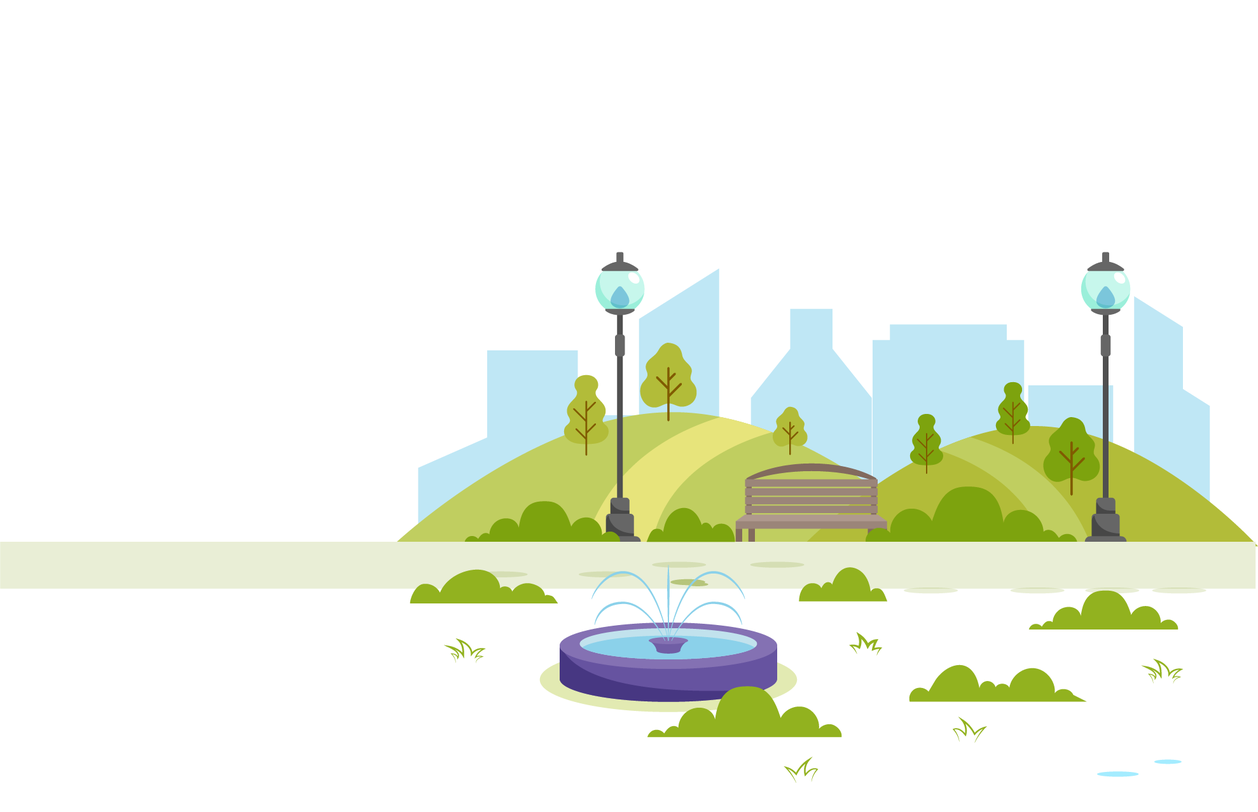
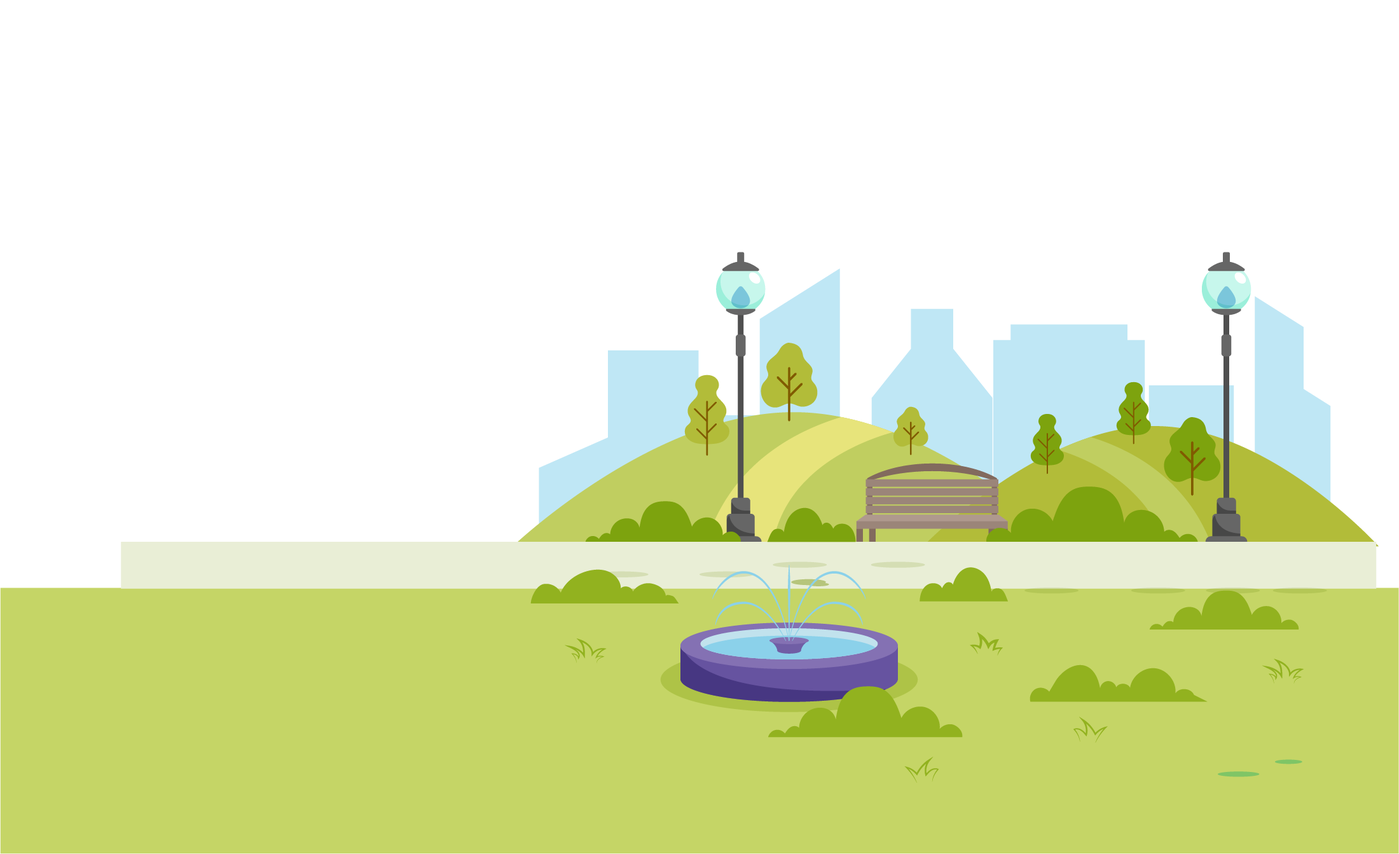
update

diff --git a/sass/style.css b/sass/style.css
@@ -1,1 +1,1 @@
-@import"https://fonts.googleapis.com/css2?family=Poppins:wght@400;700&family=Tilt+Neon&family=Outfit:wght@400;700&family=Prompt:wght@400;700&display=swap";section{padding:32px 0;min-height:100vh;z-index:11;background:#eee;position:relative}@media screen and (max-width: 400px){section p{font-size:.85rem}}.sticky-mode{position:sticky;left:0;right:0;top:0;bottom:0;min-height:100vh}.wrap-detikx{width:700px;position:relative;margin:0 auto}@media screen and (max-width: 766px){.wrap-detikx{width:90%;margin:0 auto;display:block}}.totop{position:relative;z-index:19}.firstletter::first-letter{float:left;font-weight:bold;margin-right:8px;font-size:60px;font-size:6rem;line-height:40px;line-height:4rem;height:4rem;text-transform:uppercase}main{overflow-x:clip}html,body{position:relative;height:100%;font-family:"Poppins"}html h2,html h3,body h2,body h3{font-weight:700;font-family:"Prompt"}.opening .point{position:absolute;width:fit-content;z-index:3;height:auto}.opening .point.malang{bottom:25%;right:40%}@media screen and (max-width: 768px){.opening .point.malang{bottom:26%;right:60%;width:80px}}@media screen and (max-width: 363px){.opening .point.malang{bottom:20%}}.opening .point.bwi{bottom:25%;right:10%}@media screen and (max-width: 768px){.opening .point.bwi{width:110px;bottom:35%;right:8%}}@media screen and (max-width: 400px){.opening .point.bwi{bottom:28%}}.opening .point img{width:100%;height:100%;object-fit:contain}.opening .peta{position:absolute;right:-10%;bottom:0;width:150%;height:auto}@media screen and (max-width: 768px){.opening .peta{bottom:-16%;width:250%;right:-20%}}.opening .peta img{width:100%;height:100%;object-fit:cover}.opening .kotak-aja{position:absolute;inset:0;width:100%;height:100%}.opening .kotak-aja img{width:100%;height:100%;object-fit:contain}@media screen and (max-width: 768px){.opening .kotak-aja img{object-fit:cover}}.opening .awan{position:relative;width:100%;height:auto;margin-bottom:16px}.opening .awan img{width:100%;height:100%;object-fit:contain}.banner{background:#f7c58d}.banner .judul{position:absolute;left:50%;top:50%;width:70%;transform:translate(-50%, -50%)}@media screen and (max-width: 768px){.banner .judul{width:80%}}.banner .judul h2{font-family:"Prompt",sans-serif;font-size:3.3rem;text-transform:uppercase;text-shadow:-3px 3px 0 #fff,2px 3px 0 #fff,2px -2px 0 #fff,-2px 3px 0 #fff,-3px -2px 0 #fff}@media screen and (max-width: 768px){.banner .judul h2{font-size:2.9rem}}.cerita{background:#a55e3c;overflow:clip}.cerita::before{content:"";position:absolute;top:-10vh;width:100%;height:100px;left:0;right:0;background:#a55e3c}.cerita .abs{position:absolute}.cerita .abs-3{left:0;top:0;bottom:0;height:140%}@media screen and (max-width: 768px){.cerita .abs-3{left:0;bottom:-78vh;width:fit-content;height:auto}}@media screen and (min-width: 1600px){.cerita .abs-3{left:0;top:0;bottom:0;height:100%}}.cerita .abs-2{left:35vw;top:-12vh;bottom:0;height:80%}@media screen and (max-width: 768px){.cerita .abs-2{left:initial;bottom:-8vh;width:fit-content;height:auto;transform:rotate(-29deg);right:0}}@media screen and (min-width: 1600px){.cerita .abs-2{left:25vw;top:-12vh;bottom:0;height:80%}}.cerita .abs-1{left:-20vw;width:auto;height:140%;bottom:-10vh}@media screen and (max-width: 768px){.cerita .abs-1{left:-76vw;width:auto;height:80%;bottom:-20vh}}@media screen and (min-width: 1900px){.cerita .abs-1{left:-20vw;height:100%;bottom:-10vh}}.cerita .abs img{width:100%;height:100%;object-fit:contain}.cerita .abs-rel{bottom:-46vh;left:-36vw;width:auto;height:100%}@media screen and (max-width: 768px){.cerita .abs-rel{left:-100vw}}@media screen and (min-width: 1400px){.cerita .abs-rel{bottom:-40vh;left:-50vw}}@keyframes banner{0%{transform:rotateY(0deg);bottom:30%;left:5%}20%{bottom:30%;left:5%}50%{bottom:70%;left:-30%}51%{bottom:calc(50% + 300px);left:-55%}100%{bottom:30%;left:5%}}@keyframes banner-mob{0%{transform:rotateY(0deg);bottom:18vh;left:12%}20%{bottom:18vh;left:12%}50%{bottom:40vh;left:-60%}51%{bottom:43vh;left:-62%}100%{bottom:18vh;left:12%}}.cerita .abs.mobil-1{left:5%;bottom:30%;height:250px;width:fit-content;animation:linear infinite;animation-name:banner;animation-duration:12s}@media screen and (max-width: 768px){.cerita .abs.mobil-1{height:18vh;bottom:18vh;left:12%;animation:linear infinite;animation-name:banner-mob;animation-duration:15s}}.cerita .abs.mobil-2{left:20%;bottom:10vh;height:30vh;z-index:1}@media screen and (max-width: 768px){.cerita .abs.mobil-2{left:initial;height:18vh;bottom:10vh;right:6vw}}.cerita .abs.mobil-2 .bayang{position:absolute;right:-52%;height:80px;bottom:6px}@media screen and (max-width: 768px){.cerita .abs.mobil-2 .bayang{right:-44%;height:56px}}.cerita .abs.mobil-2 .bayang img{width:100%;height:100%;object-fit:contain}.cerita .abs.mobil-2 .lala{position:relative;z-index:2}@keyframes Gali{0%,100%{transform:rotate(-5deg);top:2%;left:-40%}50%{transform:rotate(-15deg);top:4%;left:-36%}}@keyframes GaliBig{0%,100%{transform:rotate(-5deg);top:2%;left:-30%}50%{transform:rotate(-20deg);top:4%;left:-24%}}.cerita .abs.mobil-2 .gali{animation:Gali 2s linear infinite;position:absolute;left:-40%;width:120px;top:2%;transform:rotate(-5deg);height:120px;z-index:1}@media screen and (max-width: 768px){.cerita .abs.mobil-2 .gali{width:100px;height:100px;left:-50%}}@media screen and (min-width: 1500px){.cerita .abs.mobil-2 .gali{animation:GaliBig 2s linear infinite;left:-30%}}@media screen and (max-width: 400px){.cerita .abs.mobil-2 .gali{width:80px;height:80px;left:-40%}}.cerita .abs.kereta-1{bottom:0;left:8vw;display:none}@media screen and (max-width: 768px){.cerita .abs.kereta-1{bottom:5vh}}@keyframes kereta{0%{bottom:-20vh;left:15vw}30%{bottom:-20vh;left:15vw}50%{bottom:50vh;left:-45vw}51%{bottom:55vh;left:-50vw}100%{bottom:-20vh;left:15vw}}@keyframes kereta-mob{0%{bottom:-3vh;left:12%}30%{bottom:-3vh;left:12%}50%{bottom:20%;left:-70%}51%{bottom:22%;left:-83%}100%{bottom:-3vh;left:12%}}.cerita .abs.kereta-2{bottom:-10vh;animation:linear infinite;animation-name:kereta;animation-duration:10s;left:15vw;z-index:2;height:fit-content}@media screen and (max-width: 768px){.cerita .abs.kereta-2{bottom:-3vh;left:8%;height:180px;animation:linear infinite;animation-name:kereta-mob;animation-duration:12s}}.cerita .wrap-detikx{margin-top:-50vh}@media screen and (max-width: 768px){.cerita .wrap-detikx{margin-top:-100vh}}.cerita .judul{color:#ffe473;font-size:2.2rem;text-align:right}@media screen and (max-width: 768px){.cerita .judul{font-size:1.8rem;text-align:left}}.cerita .content{text-align:right;color:#fff;padding:8px 8px;margin-bottom:10vh;border-radius:16px;background:linear-gradient(to bottom, transparent, rgba(165, 94, 60, 0.7))}@media screen and (max-width: 768px){.cerita .content{text-align:left;margin-bottom:20vh}}@media screen and (max-width: 768px){.cerita .content.mar-bot{margin-bottom:50vh}}.pantai{background:linear-gradient(to left, #058ac7, #95e0ce);overflow:clip;display:none}@media screen and (max-width: 768px){.pantai{background:linear-gradient(to bottom, #058ac7, #95e0ce)}}.pantai .test-pulau{position:absolute;bottom:35vh;right:-8vw;width:35%;height:fit-content}@media screen and (max-width: 768px){.pantai .test-pulau{position:absolute;bottom:35vh;right:50vw;width:70%;height:fit-content}}.pantai .test-pulau img{width:100%;height:100%;object-fit:contain}.pantai .ombak{position:absolute;right:2vw;bottom:-8vh;width:auto;height:fit-content}@media screen and (max-width: 768px){.pantai .ombak{position:absolute;right:-10vw;bottom:15vh;width:100%;height:50vh}}.pantai .ombak img{width:100%;height:100%;object-fit:contain}.pantai .content{color:#fff}.pantai .wrap-detikx{margin-top:-30vh}@media screen and (max-width: 768px){.pantai .wrap-detikx{margin-top:-80vh}}.pantai .judul{font-size:2.8rem;margin-bottom:16px}@media screen and (max-width: 768px){.pantai .judul{font-size:1.8rem}}.pantai .hello{background:linear-gradient(to bottom, #058ac7, rgba(5, 138, 199, 0.5));padding:8px;border-radius:16px;margin-bottom:10vh}@media screen and (max-width: 768px){.pantai .hello{margin-bottom:40vh}}.sunset{padding-top:0;background:#f1a04b;padding-bottom:1px}.sunset .help-bg{position:absolute;top:-8vh;left:0;right:0;width:100%;height:auto;transform:rotate(180deg);z-index:2}@media screen and (max-width: 768px){.sunset .help-bg{top:0}}.sunset .help-bg img{width:100%;height:100%;object-fit:contain}.sunset .bg{background:linear-gradient(to top, #f0a24b 25%, #fb3d36 25%);position:absolute;inset:0}@media screen and (max-width: 768px){.sunset .bg{background:linear-gradient(to top, #f0a24b 37%, #fb3d36 37%)}}.sunset .img{width:fit-content;height:auto}.sunset .img img{width:100%;height:100%;object-fit:contain}.sunset .awan{position:absolute;top:25%;left:15%;height:auto;width:300px}@media screen and (max-width: 768px){.sunset .awan{width:fit-content}}.sunset .awan img{width:100%;height:100%;object-fit:contain}.sunset .pulau{position:absolute;bottom:20vh;left:50%;z-index:2;width:50%;height:auto;transform:translate(-50%, 0)}@media screen and (max-width: 768px){.sunset .pulau{width:100%;height:auto;bottom:35vh}}.sunset .pulau-bayangan{position:absolute;bottom:0vh;left:50%;z-index:2;width:70%;height:auto;transform:translate(-50%, 0)}@media screen and (max-width: 768px){.sunset .pulau-bayangan{width:150%;height:fit-content;bottom:25vh}}.sunset .matahari{position:absolute;bottom:15vh;left:50%;z-index:1;width:30%;height:auto;transform:translate(-50%, 0)}@media screen and (max-width: 768px){.sunset .matahari{width:50%;height:auto;bottom:35vh}}.sunset .awan-atas{position:absolute;bottom:-5%;z-index:3;left:50%;transform:translate(-50%, 0);width:120%;height:auto}@media screen and (max-width: 768px){.sunset .awan-atas{bottom:-1%}}.sunset .awan-atas img{width:100%;height:100%;object-fit:contain}.sunset .wrap-detikx{margin-top:-50vh}@keyframes burung{0%,100%{bottom:50vh;opacity:0;transform:scale(0)}20%{bottom:50vh;opacity:0;transform:scale(0)}30%{bottom:50vh;opacity:1;transform:scale(1)}50%{bottom:52vh;opacity:1;transform:scale(1)}70%{bottom:55vh;transform:scale(1);opacity:.5}80%{bottom:55vh;opacity:0;transform:scale(0)}100%{bottom:55vh;opacity:0;transform:scale(0)}}.sunset .burung{animation:burung 15s linear infinite;position:absolute;opacity:0;right:15vw;bottom:50vh}@media screen and (max-width: 768px){.sunset .burung{bottom:60vh}}.sunset .judul{text-align:center;color:#fff;font-size:2.8rem;margin-bottom:16px;text-shadow:3px 3px #600603}@media screen and (max-width: 768px){.sunset .judul{font-size:1.8rem}}.sunset .hello{background:rgba(252,124,44,.8);padding:16px;border-radius:16px;margin-bottom:10vh}.sunset .hello.mar-bot{margin-bottom:70vh}.sunset .hello p,.sunset .hello li{color:#fff}.pesisir{background:linear-gradient(to top, #fdbb9b, #f8e99b);padding:0}.pesisir .wrap-detikx{margin-top:-50vh}.pesisir .awan-kuning{position:absolute;left:0;right:0;top:-8vh;width:100%;height:fit-content}@media screen and (max-width: 768px){.pesisir .awan-kuning{top:-3vh}}.pesisir .awan-kuning img{width:100%;height:100%;object-fit:contain}.pesisir .judul{font-size:2.8rem;color:#d85c5c}@media screen and (max-width: 768px){.pesisir .judul{font-size:2rem}}.pesisir .hello{background:linear-gradient(to bottom, #faae2e, rgba(250, 174, 46, 0.7));padding:16px;border-radius:16px;margin-bottom:20vh;color:#fff}.pesisir .hello.mar-bot{margin-bottom:50vh}.pesisir .mobil{position:absolute;right:0;z-index:3;width:fit-content;height:40%;bottom:20px}@media screen and (max-width: 768px){.pesisir .mobil{bottom:72px;width:50%;height:auto}}.pesisir .mobil img{width:100%;height:100%;object-fit:contain}.pesisir .pohon{position:absolute;right:0;bottom:157px;z-index:1;width:50%}@media screen and (max-width: 768px){.pesisir .pohon{width:100%;bottom:80px}}.pesisir .pohon img{width:100%;height:100%;object-fit:contain}.pesisir .awan{position:absolute;right:10%;top:15%;width:fit-content;height:70px}.pesisir .awan img{width:100%;height:100%;object-fit:contain}.pesisir .alat{position:absolute;bottom:100px;right:30vw;width:18%;height:auto;z-index:2}@media screen and (max-width: 768px){.pesisir .alat{right:40%;width:20%}}.pesisir .alat img{width:100%;height:100%;object-fit:contain}.pesisir .aer{position:absolute;bottom:0;left:0;right:0}@media screen and (max-width: 768px){.pesisir .aer{bottom:72px}}.pesisir .aer img{width:100%;height:auto;object-fit:contain}.pesisir .pasir{position:absolute;bottom:0;left:0;right:0;width:100%;z-index:1;height:fit-content}@media screen and (max-width: 768px){.pesisir .pasir{bottom:72px}}.pesisir .pasir img{width:100%;height:auto}.bromo{background:#c1e7fa;padding:1px 0;overflow-y:clip}@keyframes awanbromo{0%,100%{left:15%}50%{left:25%}}.bromo .awan-bromo{position:absolute;animation:awanbromo 10s linear infinite;bottom:25%;left:15%;width:300px;height:auto;z-index:3}@media screen and (max-width: 768px){.bromo .awan-bromo{bottom:12%;width:120px}}.bromo .awan-bromo img{width:100%;height:100%;object-fit:contain}@keyframes awanbromo2{0%,100%{right:15%}50%{right:20%}}.bromo .awan-bromo2{position:absolute;animation:awanbromo2 13s linear infinite;bottom:20%;right:15%;width:200px;height:auto;z-index:3}@media screen and (max-width: 768px){.bromo .awan-bromo2{bottom:12%;width:120px}}.bromo .awan-bromo2 img{width:100%;height:100%;object-fit:contain}.bromo .gunung{position:absolute;left:0;right:0;bottom:0vh;width:100%;height:auto}@media screen and (max-width: 768px){.bromo .gunung{bottom:0;width:160%;transform:translate(-50%, 0);left:50%}}.bromo .gunung img{width:100%;height:100%;object-fit:cover}.bromo .content .judul{color:#507125;font-size:2.8rem}@media screen and (max-width: 768px){.bromo .content .judul{font-size:1.7rem}}.bromo .content .hello{padding:16px;border-radius:16px;margin-bottom:30vh;background:linear-gradient(to bottom, white, rgba(255, 255, 255, 0.8))}@media screen and (max-width: 768px){.bromo .content .hello{margin-bottom:10vh}}.bromo .content .hello.mar-bot{margin-bottom:50vh}.bromo .wrap-detikx{margin-top:-20vh}@media screen and (max-width: 768px){.bromo .wrap-detikx{margin-top:-90vh}}.lautan-pasir .judul{font-size:2.8rem}@media screen and (max-width: 768px){.lautan-pasir .judul{font-size:1.8rem}}.lautan-pasir .batas{position:absolute;top:-8vh;left:0;right:0}.lautan-pasir .batas::before{content:"";position:absolute;left:0;right:0;bottom:0;width:100%;height:200px;background:linear-gradient(to top, #eee, transparent)}@media screen and (max-width: 768px){.lautan-pasir .batas::before{background:transparent}}.lautan-pasir .img{width:100%;height:420px;border-radius:16px;box-shadow:3px 3px 5px #bbb}@media screen and (max-width: 768px){.lautan-pasir .img{height:320px}}.lautan-pasir .img img{width:100%;border-radius:16px;height:100%;object-fit:cover}.lautan-pasir .content{margin:16px 0}.pembukaan{background:#f7c58d}.pembukaan .wrap-detikx{position:relative;top:-80vh}.pembukaan .abs{display:none}@media screen and (max-width: 768px){.pembukaan .abs{left:-6%;display:block;bottom:-24%;position:absolute;transform:rotate(130deg);width:115%;height:auto}}.pembukaan .abs img{width:100%;height:100%;object-fit:contain}.pembukaan .coba-peta{position:absolute;bottom:5%;left:50%;width:80%;height:50%;transform:translate(-50%, 0)}.pembukaan .coba-peta img{width:100%;height:100%;object-fit:contain}.pembukaan .jatim{position:absolute;right:5%;bottom:35%;width:320px;height:auto}@media screen and (max-width: 768px){.pembukaan .jatim{bottom:35%;width:110px}}.pembukaan .jatim img{width:100%;height:100%;object-fit:contain}.malang{background:#d7f0f7;padding:0}.malang .judul{font-size:3.3rem}@media screen and (max-width: 768px){.malang .judul{font-size:2.8rem}}.malang .helping{position:absolute;inset:0;background:linear-gradient(to top, #c5d566 22%, #d7f0f7 20%)}@media screen and (max-width: 768px){.malang .helping{background:linear-gradient(to top, #c5d566 63%, #d7f0f7 20%)}}@media screen and (max-width: 405px){.malang .helping{background:linear-gradient(to top, #c5d566 67%, #d7f0f7 20%)}}.malang .tahu-telur{position:absolute;top:55%;right:30%;width:220px;height:auto}@media screen and (max-width: 768px){.malang .tahu-telur{position:absolute;top:26%;right:70%;width:76px;height:auto}}@media screen and (max-width: 405px){.malang .tahu-telur{top:28%}}.malang .tahu-telur img{width:100%;height:100%;object-fit:contain}.malang .stick-judul{font-size:3.5rem;top:28%;right:7%;width:30%;position:absolute;text-align:center;line-height:3rem;text-shadow:3px 3px silver}@media screen and (max-width: 768px){.malang .stick-judul{font-size:2.5rem;top:10%;line-height:2rem;right:5%;width:70%;text-align:right;position:absolute}}.malang .hello{margin-bottom:30vh;background:linear-gradient(to bottom, white, rgba(255, 255, 255, 0.8));padding:16px;border-radius:16px}@media screen and (max-width: 768px){.malang .hello{margin-bottom:10vh}}.malang .wrap-detikx{position:relative;top:-90vh}@media screen and (max-width: 768px){.malang .wrap-detikx{top:-60vh}}.malang .taman{position:absolute;top:10%;right:0;width:70%;height:auto}@media screen and (max-width: 768px){.malang .taman{width:100%}}.malang .taman img{width:100%;height:100%;object-fit:contain}.surabaya .judul{font-size:3rem}/*# sourceMappingURL=style.css.map */
+@import"https://fonts.googleapis.com/css2?family=Poppins:wght@400;700&family=Tilt+Neon&family=Outfit:wght@400;700&family=Prompt:wght@400;700&display=swap";section{padding:32px 0;min-height:100vh;z-index:11;background:#eee;position:relative}@media screen and (max-width: 400px){section p{font-size:.85rem}}.sticky-mode{position:sticky;left:0;right:0;top:0;bottom:0;min-height:100vh}.wrap-detikx{width:700px;position:relative;margin:0 auto}@media screen and (max-width: 766px){.wrap-detikx{width:90%;margin:0 auto;display:block}}.totop{position:relative;z-index:19}.firstletter::first-letter{float:left;font-weight:bold;margin-right:8px;font-size:60px;font-size:6rem;line-height:40px;line-height:4rem;height:4rem;text-transform:uppercase}main{overflow-x:clip}html,body{position:relative;height:100%;font-family:"Poppins"}html h2,html h3,body h2,body h3{font-weight:700;font-family:"Prompt"}.opening .point{position:absolute;width:fit-content;z-index:3;height:auto}.opening .point.malang{bottom:25%;right:40%}@media screen and (max-width: 768px){.opening .point.malang{bottom:26%;right:60%;width:80px}}@media screen and (max-width: 363px){.opening .point.malang{bottom:20%}}.opening .point.bwi{bottom:25%;right:10%}@media screen and (max-width: 768px){.opening .point.bwi{width:110px;bottom:35%;right:8%}}@media screen and (max-width: 400px){.opening .point.bwi{bottom:28%}}.opening .point img{width:100%;height:100%;object-fit:contain}.opening .peta{position:absolute;right:-10%;bottom:0;width:150%;height:auto}@media screen and (max-width: 768px){.opening .peta{bottom:-16%;width:250%;right:-20%}}.opening .peta img{width:100%;height:100%;object-fit:cover}.opening .kotak-aja{position:absolute;inset:0;width:100%;height:100%}.opening .kotak-aja img{width:100%;height:100%;object-fit:contain}@media screen and (max-width: 768px){.opening .kotak-aja img{object-fit:cover}}.opening .awan{position:relative;width:100%;height:auto;margin-bottom:16px}.opening .awan img{width:100%;height:100%;object-fit:contain}.banner{background:#f7c58d}.banner .judul{position:absolute;left:50%;top:50%;width:70%;transform:translate(-50%, -50%)}@media screen and (max-width: 768px){.banner .judul{width:80%}}.banner .judul h2{font-family:"Prompt",sans-serif;font-size:3.3rem;text-transform:uppercase;text-shadow:-3px 3px 0 #fff,2px 3px 0 #fff,2px -2px 0 #fff,-2px 3px 0 #fff,-3px -2px 0 #fff}@media screen and (max-width: 768px){.banner .judul h2{font-size:2.9rem}}.cerita{background:#a55e3c;overflow:clip}.cerita::before{content:"";position:absolute;top:-10vh;width:100%;height:100px;left:0;right:0;background:#a55e3c}.cerita .abs{position:absolute}.cerita .abs-3{left:0;top:0;bottom:0;height:140%}@media screen and (max-width: 768px){.cerita .abs-3{left:0;bottom:-78vh;width:fit-content;height:auto}}@media screen and (min-width: 1600px){.cerita .abs-3{left:0;top:0;bottom:0;height:100%}}.cerita .abs-2{left:35vw;top:-12vh;bottom:0;height:80%}@media screen and (max-width: 768px){.cerita .abs-2{left:initial;bottom:-8vh;width:fit-content;height:auto;transform:rotate(-29deg);right:0}}@media screen and (min-width: 1600px){.cerita .abs-2{left:25vw;top:-12vh;bottom:0;height:80%}}.cerita .abs-1{left:-20vw;width:auto;height:140%;bottom:-10vh}@media screen and (max-width: 768px){.cerita .abs-1{left:-76vw;width:auto;height:80%;bottom:-20vh}}@media screen and (min-width: 1900px){.cerita .abs-1{left:-20vw;height:100%;bottom:-10vh}}.cerita .abs img{width:100%;height:100%;object-fit:contain}.cerita .abs-rel{bottom:-46vh;left:-36vw;width:auto;height:100%}@media screen and (max-width: 768px){.cerita .abs-rel{left:-100vw}}@media screen and (min-width: 1400px){.cerita .abs-rel{bottom:-40vh;left:-50vw}}@keyframes banner{0%{transform:rotateY(0deg);bottom:30%;left:5%}20%{bottom:30%;left:5%}50%{bottom:70%;left:-30%}51%{bottom:calc(50% + 300px);left:-55%}100%{bottom:30%;left:5%}}@keyframes banner-mob{0%{transform:rotateY(0deg);bottom:18vh;left:12%}20%{bottom:18vh;left:12%}50%{bottom:40vh;left:-60%}51%{bottom:43vh;left:-62%}100%{bottom:18vh;left:12%}}.cerita .abs.mobil-1{left:5%;bottom:30%;height:250px;width:fit-content;animation:linear infinite;animation-name:banner;animation-duration:12s}@media screen and (max-width: 768px){.cerita .abs.mobil-1{height:18vh;bottom:18vh;left:12%;animation:linear infinite;animation-name:banner-mob;animation-duration:15s}}.cerita .abs.mobil-2{left:20%;bottom:10vh;height:30vh;z-index:1}@media screen and (max-width: 768px){.cerita .abs.mobil-2{left:initial;height:18vh;bottom:10vh;right:6vw}}.cerita .abs.mobil-2 .bayang{position:absolute;right:-52%;height:80px;bottom:6px}@media screen and (max-width: 768px){.cerita .abs.mobil-2 .bayang{right:-44%;height:56px}}.cerita .abs.mobil-2 .bayang img{width:100%;height:100%;object-fit:contain}.cerita .abs.mobil-2 .lala{position:relative;z-index:2}@keyframes Gali{0%,100%{transform:rotate(-5deg);top:2%;left:-40%}50%{transform:rotate(-15deg);top:4%;left:-36%}}@keyframes GaliBig{0%,100%{transform:rotate(-5deg);top:2%;left:-30%}50%{transform:rotate(-20deg);top:4%;left:-24%}}.cerita .abs.mobil-2 .gali{animation:Gali 2s linear infinite;position:absolute;left:-40%;width:120px;top:2%;transform:rotate(-5deg);height:120px;z-index:1}@media screen and (max-width: 768px){.cerita .abs.mobil-2 .gali{width:100px;height:100px;left:-50%}}@media screen and (min-width: 1500px){.cerita .abs.mobil-2 .gali{animation:GaliBig 2s linear infinite;left:-30%}}@media screen and (max-width: 400px){.cerita .abs.mobil-2 .gali{width:80px;height:80px;left:-40%}}.cerita .abs.kereta-1{bottom:0;left:8vw;display:none}@media screen and (max-width: 768px){.cerita .abs.kereta-1{bottom:5vh}}@keyframes kereta{0%{bottom:-20vh;left:15vw}30%{bottom:-20vh;left:15vw}50%{bottom:50vh;left:-45vw}51%{bottom:55vh;left:-50vw}100%{bottom:-20vh;left:15vw}}@keyframes kereta-mob{0%{bottom:-3vh;left:12%}30%{bottom:-3vh;left:12%}50%{bottom:20%;left:-70%}51%{bottom:22%;left:-83%}100%{bottom:-3vh;left:12%}}.cerita .abs.kereta-2{bottom:-10vh;animation:linear infinite;animation-name:kereta;animation-duration:10s;left:15vw;z-index:2;height:fit-content}@media screen and (max-width: 768px){.cerita .abs.kereta-2{bottom:-3vh;left:8%;height:180px;animation:linear infinite;animation-name:kereta-mob;animation-duration:12s}}.cerita .wrap-detikx{margin-top:-50vh}@media screen and (max-width: 768px){.cerita .wrap-detikx{margin-top:-100vh}}.cerita .judul{color:#ffe473;font-size:2.2rem;text-align:right}@media screen and (max-width: 768px){.cerita .judul{font-size:1.8rem;text-align:left}}.cerita .content{text-align:right;color:#fff;padding:8px 8px;margin-bottom:10vh;border-radius:16px;background:linear-gradient(to bottom, transparent, rgba(165, 94, 60, 0.7))}@media screen and (max-width: 768px){.cerita .content{text-align:left;margin-bottom:20vh}}@media screen and (max-width: 768px){.cerita .content.mar-bot{margin-bottom:50vh}}.pantai{background:linear-gradient(to left, #058ac7, #95e0ce);overflow:clip;display:none}@media screen and (max-width: 768px){.pantai{background:linear-gradient(to bottom, #058ac7, #95e0ce)}}.pantai .test-pulau{position:absolute;bottom:35vh;right:-8vw;width:35%;height:fit-content}@media screen and (max-width: 768px){.pantai .test-pulau{position:absolute;bottom:35vh;right:50vw;width:70%;height:fit-content}}.pantai .test-pulau img{width:100%;height:100%;object-fit:contain}.pantai .ombak{position:absolute;right:2vw;bottom:-8vh;width:auto;height:fit-content}@media screen and (max-width: 768px){.pantai .ombak{position:absolute;right:-10vw;bottom:15vh;width:100%;height:50vh}}.pantai .ombak img{width:100%;height:100%;object-fit:contain}.pantai .content{color:#fff}.pantai .wrap-detikx{margin-top:-30vh}@media screen and (max-width: 768px){.pantai .wrap-detikx{margin-top:-80vh}}.pantai .judul{font-size:2.8rem;margin-bottom:16px}@media screen and (max-width: 768px){.pantai .judul{font-size:1.8rem}}.pantai .hello{background:linear-gradient(to bottom, #058ac7, rgba(5, 138, 199, 0.5));padding:8px;border-radius:16px;margin-bottom:10vh}@media screen and (max-width: 768px){.pantai .hello{margin-bottom:40vh}}.sunset{padding-top:0;background:#f1a04b;padding-bottom:1px}.sunset .help-bg{position:absolute;top:-8vh;left:0;right:0;width:100%;height:auto;transform:rotate(180deg);z-index:2}@media screen and (max-width: 768px){.sunset .help-bg{top:0}}.sunset .help-bg img{width:100%;height:100%;object-fit:contain}.sunset .bg{background:linear-gradient(to top, #f0a24b 25%, #fb3d36 25%);position:absolute;inset:0}@media screen and (max-width: 768px){.sunset .bg{background:linear-gradient(to top, #f0a24b 37%, #fb3d36 37%)}}.sunset .img{width:fit-content;height:auto}.sunset .img img{width:100%;height:100%;object-fit:contain}.sunset .awan{position:absolute;top:25%;left:15%;height:auto;width:300px}@media screen and (max-width: 768px){.sunset .awan{width:fit-content}}.sunset .awan img{width:100%;height:100%;object-fit:contain}.sunset .pulau{position:absolute;bottom:20vh;left:50%;z-index:2;width:50%;height:auto;transform:translate(-50%, 0)}@media screen and (max-width: 768px){.sunset .pulau{width:100%;height:auto;bottom:35vh}}.sunset .pulau-bayangan{position:absolute;bottom:0vh;left:50%;z-index:2;width:70%;height:auto;transform:translate(-50%, 0)}@media screen and (max-width: 768px){.sunset .pulau-bayangan{width:150%;height:fit-content;bottom:25vh}}.sunset .matahari{position:absolute;bottom:15vh;left:50%;z-index:1;width:30%;height:auto;transform:translate(-50%, 0)}@media screen and (max-width: 768px){.sunset .matahari{width:50%;height:auto;bottom:35vh}}.sunset .awan-atas{position:absolute;bottom:-5%;z-index:3;left:50%;transform:translate(-50%, 0);width:120%;height:auto}@media screen and (max-width: 768px){.sunset .awan-atas{bottom:-1%}}.sunset .awan-atas img{width:100%;height:100%;object-fit:contain}.sunset .wrap-detikx{margin-top:-50vh}@keyframes burung{0%,100%{bottom:50vh;opacity:0;transform:scale(0)}20%{bottom:50vh;opacity:0;transform:scale(0)}30%{bottom:50vh;opacity:1;transform:scale(1)}50%{bottom:52vh;opacity:1;transform:scale(1)}70%{bottom:55vh;transform:scale(1);opacity:.5}80%{bottom:55vh;opacity:0;transform:scale(0)}100%{bottom:55vh;opacity:0;transform:scale(0)}}.sunset .burung{animation:burung 15s linear infinite;position:absolute;opacity:0;right:15vw;bottom:50vh}@media screen and (max-width: 768px){.sunset .burung{bottom:60vh}}.sunset .judul{text-align:center;color:#fff;font-size:2.8rem;margin-bottom:16px;text-shadow:3px 3px #600603}@media screen and (max-width: 768px){.sunset .judul{font-size:1.8rem}}.sunset .hello{background:rgba(252,124,44,.8);padding:16px;border-radius:16px;margin-bottom:10vh}.sunset .hello.mar-bot{margin-bottom:70vh}.sunset .hello p,.sunset .hello li{color:#fff}.pesisir{background:linear-gradient(to top, #fdbb9b, #f8e99b);padding:0}.pesisir .wrap-detikx{margin-top:-50vh}.pesisir .awan-kuning{position:absolute;left:0;right:0;top:-8vh;width:100%;height:fit-content}@media screen and (max-width: 768px){.pesisir .awan-kuning{top:-3vh}}.pesisir .awan-kuning img{width:100%;height:100%;object-fit:contain}.pesisir .judul{font-size:2.8rem;color:#d85c5c}@media screen and (max-width: 768px){.pesisir .judul{font-size:2rem}}.pesisir .hello{background:linear-gradient(to bottom, #faae2e, rgba(250, 174, 46, 0.7));padding:16px;border-radius:16px;margin-bottom:20vh;color:#fff}.pesisir .hello.mar-bot{margin-bottom:50vh}.pesisir .mobil{position:absolute;right:0;z-index:3;width:fit-content;height:40%;bottom:20px}@media screen and (max-width: 768px){.pesisir .mobil{bottom:72px;width:50%;height:auto}}.pesisir .mobil img{width:100%;height:100%;object-fit:contain}.pesisir .pohon{position:absolute;right:0;bottom:157px;z-index:1;width:50%}@media screen and (max-width: 768px){.pesisir .pohon{width:100%;bottom:80px}}.pesisir .pohon img{width:100%;height:100%;object-fit:contain}.pesisir .awan{position:absolute;right:10%;top:15%;width:fit-content;height:70px}.pesisir .awan img{width:100%;height:100%;object-fit:contain}.pesisir .alat{position:absolute;bottom:100px;right:30vw;width:18%;height:auto;z-index:2}@media screen and (max-width: 768px){.pesisir .alat{right:40%;width:20%}}.pesisir .alat img{width:100%;height:100%;object-fit:contain}.pesisir .aer{position:absolute;bottom:0;left:0;right:0}@media screen and (max-width: 768px){.pesisir .aer{bottom:72px}}.pesisir .aer img{width:100%;height:auto;object-fit:contain}.pesisir .pasir{position:absolute;bottom:0;left:0;right:0;width:100%;z-index:1;height:fit-content}@media screen and (max-width: 768px){.pesisir .pasir{bottom:72px}}.pesisir .pasir img{width:100%;height:auto}.bromo{background:#c1e7fa;padding:1px 0;overflow-y:clip}@keyframes awanbromo{0%,100%{left:15%}50%{left:25%}}.bromo .awan-bromo{position:absolute;animation:awanbromo 10s linear infinite;bottom:25%;left:15%;width:300px;height:auto;z-index:3}@media screen and (max-width: 768px){.bromo .awan-bromo{bottom:12%;width:120px}}.bromo .awan-bromo img{width:100%;height:100%;object-fit:contain}@keyframes awanbromo2{0%,100%{right:15%}50%{right:20%}}.bromo .awan-bromo2{position:absolute;animation:awanbromo2 13s linear infinite;bottom:20%;right:15%;width:200px;height:auto;z-index:3}@media screen and (max-width: 768px){.bromo .awan-bromo2{bottom:12%;width:120px}}.bromo .awan-bromo2 img{width:100%;height:100%;object-fit:contain}.bromo .gunung{position:absolute;left:0;right:0;bottom:0vh;width:100%;height:auto}@media screen and (max-width: 768px){.bromo .gunung{bottom:0;width:160%;transform:translate(-50%, 0);left:50%}}.bromo .gunung img{width:100%;height:100%;object-fit:cover}.bromo .content .judul{color:#507125;font-size:2.8rem}@media screen and (max-width: 768px){.bromo .content .judul{font-size:1.7rem}}.bromo .content .hello{padding:16px;border-radius:16px;margin-bottom:30vh;background:linear-gradient(to bottom, white, rgba(255, 255, 255, 0.8))}@media screen and (max-width: 768px){.bromo .content .hello{margin-bottom:10vh}}.bromo .content .hello.mar-bot{margin-bottom:50vh}.bromo .wrap-detikx{margin-top:-20vh}@media screen and (max-width: 768px){.bromo .wrap-detikx{margin-top:-90vh}}.lautan-pasir .judul{font-size:2.8rem}@media screen and (max-width: 768px){.lautan-pasir .judul{font-size:1.8rem}}.lautan-pasir .batas{position:absolute;top:-8vh;left:0;right:0}.lautan-pasir .batas::before{content:"";position:absolute;left:0;right:0;bottom:0;width:100%;height:200px;background:linear-gradient(to top, #eee, transparent)}@media screen and (max-width: 768px){.lautan-pasir .batas::before{background:transparent}}.lautan-pasir .img{width:100%;height:420px;border-radius:16px;box-shadow:3px 3px 5px #bbb}@media screen and (max-width: 768px){.lautan-pasir .img{height:320px}}.lautan-pasir .img img{width:100%;border-radius:16px;height:100%;object-fit:cover}.lautan-pasir .content{margin:16px 0}.pembukaan{background:#f7c58d}.pembukaan .wrap-detikx{position:relative;top:-80vh}.pembukaan .abs{display:none}@media screen and (max-width: 768px){.pembukaan .abs{left:-6%;display:block;bottom:-24%;position:absolute;transform:rotate(130deg);width:115%;height:auto}}.pembukaan .abs img{width:100%;height:100%;object-fit:contain}.pembukaan .coba-peta{position:absolute;bottom:5%;left:50%;width:80%;height:50%;transform:translate(-50%, 0)}.pembukaan .coba-peta img{width:100%;height:100%;object-fit:contain}.pembukaan .jatim{position:absolute;right:5%;bottom:35%;width:320px;height:auto}@media screen and (max-width: 768px){.pembukaan .jatim{bottom:35%;width:110px}}.pembukaan .jatim img{width:100%;height:100%;object-fit:contain}.malang{background:#d7f0f7;padding:0}.malang .judul{font-size:3.3rem}@media screen and (max-width: 768px){.malang .judul{font-size:2.8rem}}.malang .helping{position:absolute;inset:0;background:linear-gradient(to top, #c5d566 22%, #d7f0f7 20%)}@media screen and (max-width: 768px){.malang .helping{background:linear-gradient(to top, #c5d566 63%, #d7f0f7 20%)}}@media screen and (max-width: 405px){.malang .helping{background:linear-gradient(to top, #c5d566 67%, #d7f0f7 20%)}}.malang .tahu-telur{position:absolute;top:55%;right:30%;width:220px;height:auto}@media screen and (min-width: 1400px){.malang .tahu-telur{transform:translate(0, -24%)}}@media screen and (max-width: 768px){.malang .tahu-telur{position:absolute;top:26%;right:70%;width:76px;height:auto}}@media screen and (max-width: 405px){.malang .tahu-telur{top:28%}}.malang .tahu-telur img{width:100%;height:100%;object-fit:contain}.malang .stick-judul{font-size:3.5rem;top:28%;right:7%;width:30%;position:absolute;text-align:center;line-height:3rem;text-shadow:3px 3px silver}@media screen and (max-width: 768px){.malang .stick-judul{font-size:2.5rem;top:10%;line-height:2rem;right:5%;width:70%;text-align:right;position:absolute}}.malang .hello{margin-bottom:30vh;background:linear-gradient(to bottom, white, rgba(255, 255, 255, 0.8));padding:16px;border-radius:16px}@media screen and (max-width: 768px){.malang .hello{margin-bottom:10vh}}.malang .wrap-detikx{position:relative;top:-90vh}@media screen and (max-width: 768px){.malang .wrap-detikx{top:-60vh}}.malang .taman{position:absolute;top:10%;right:0;width:70%;height:auto}@media screen and (max-width: 768px){.malang .taman{width:100%}}.malang .taman img{width:100%;height:100%;object-fit:contain}.surabaya .judul{font-size:3rem}/*# sourceMappingURL=style.css.map */

diff --git a/index.html b/index.html
@@ -427,7 +427,7 @@
                     <div class="helping"></div>
                     <h3 class="stick-judul">Kota Wisata Batu Malang</h3>
                     <div class="taman">
-                        <img src="img/taman-kota1.png" alt>
+                        <img src="img/taman-kota12.png" alt>
                     </div>
                     <div class="tahu-telur">
                         <img src="img/tahu-telor.png" alt>

diff --git a/sass/malang.scss b/sass/malang.scss
@@ -26,6 +26,9 @@
         right: 30%;
         width: 220px;
         height: auto;
+        @media screen and (min-width:1400px) {
+            transform: translate(0,-24%)
+        }
         @media screen and (max-width:768px) {
             position: absolute;
             top: 26%;
